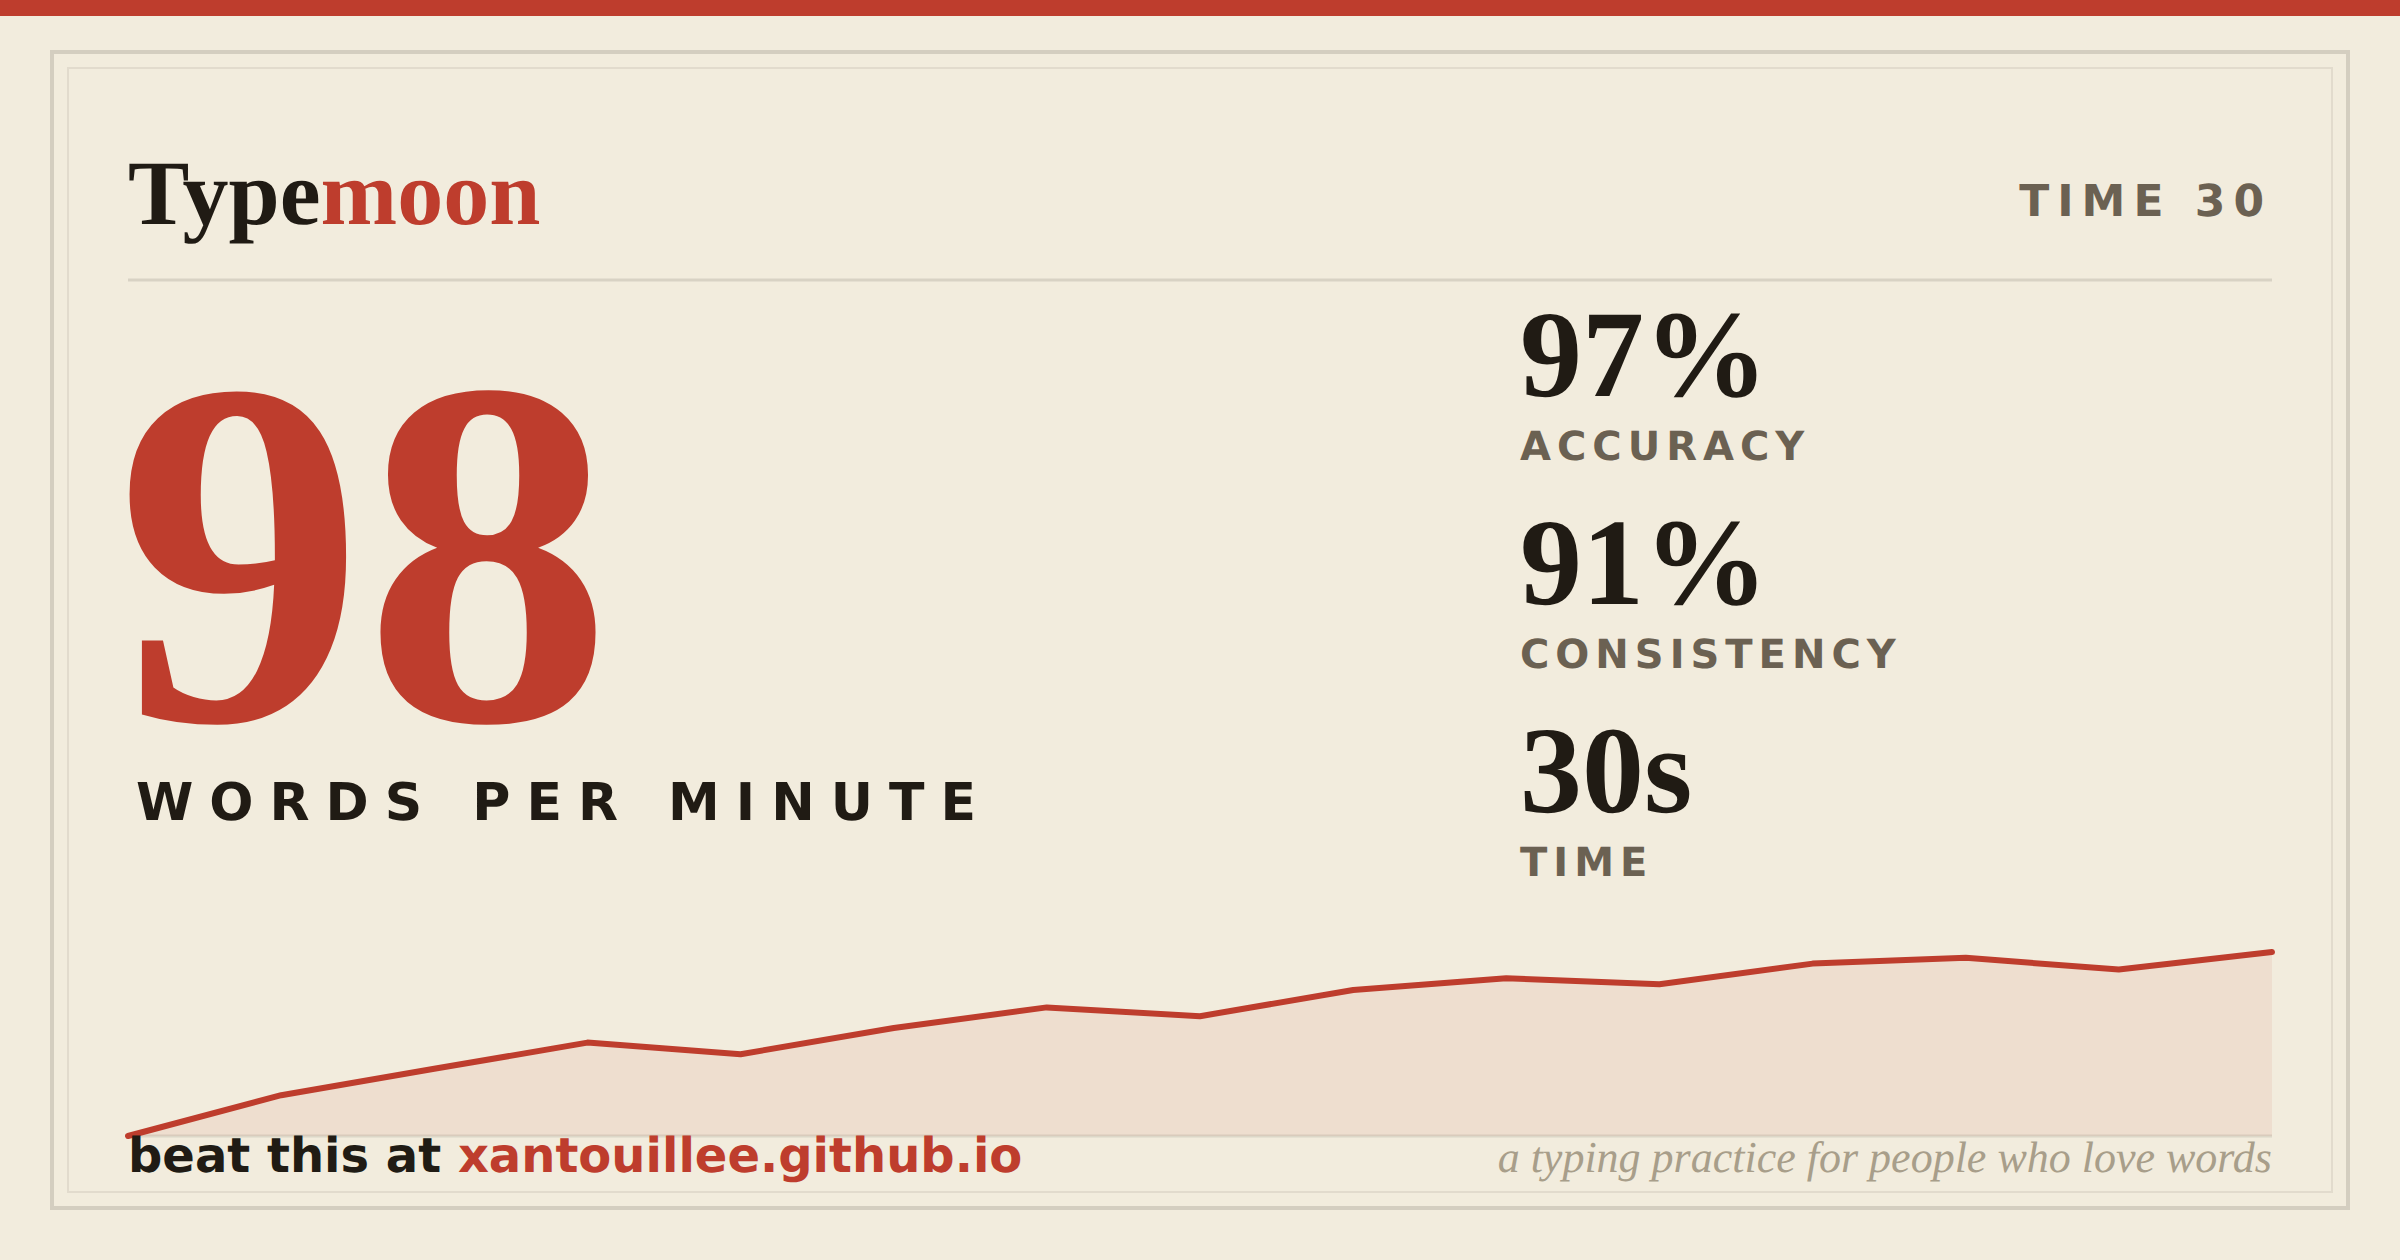
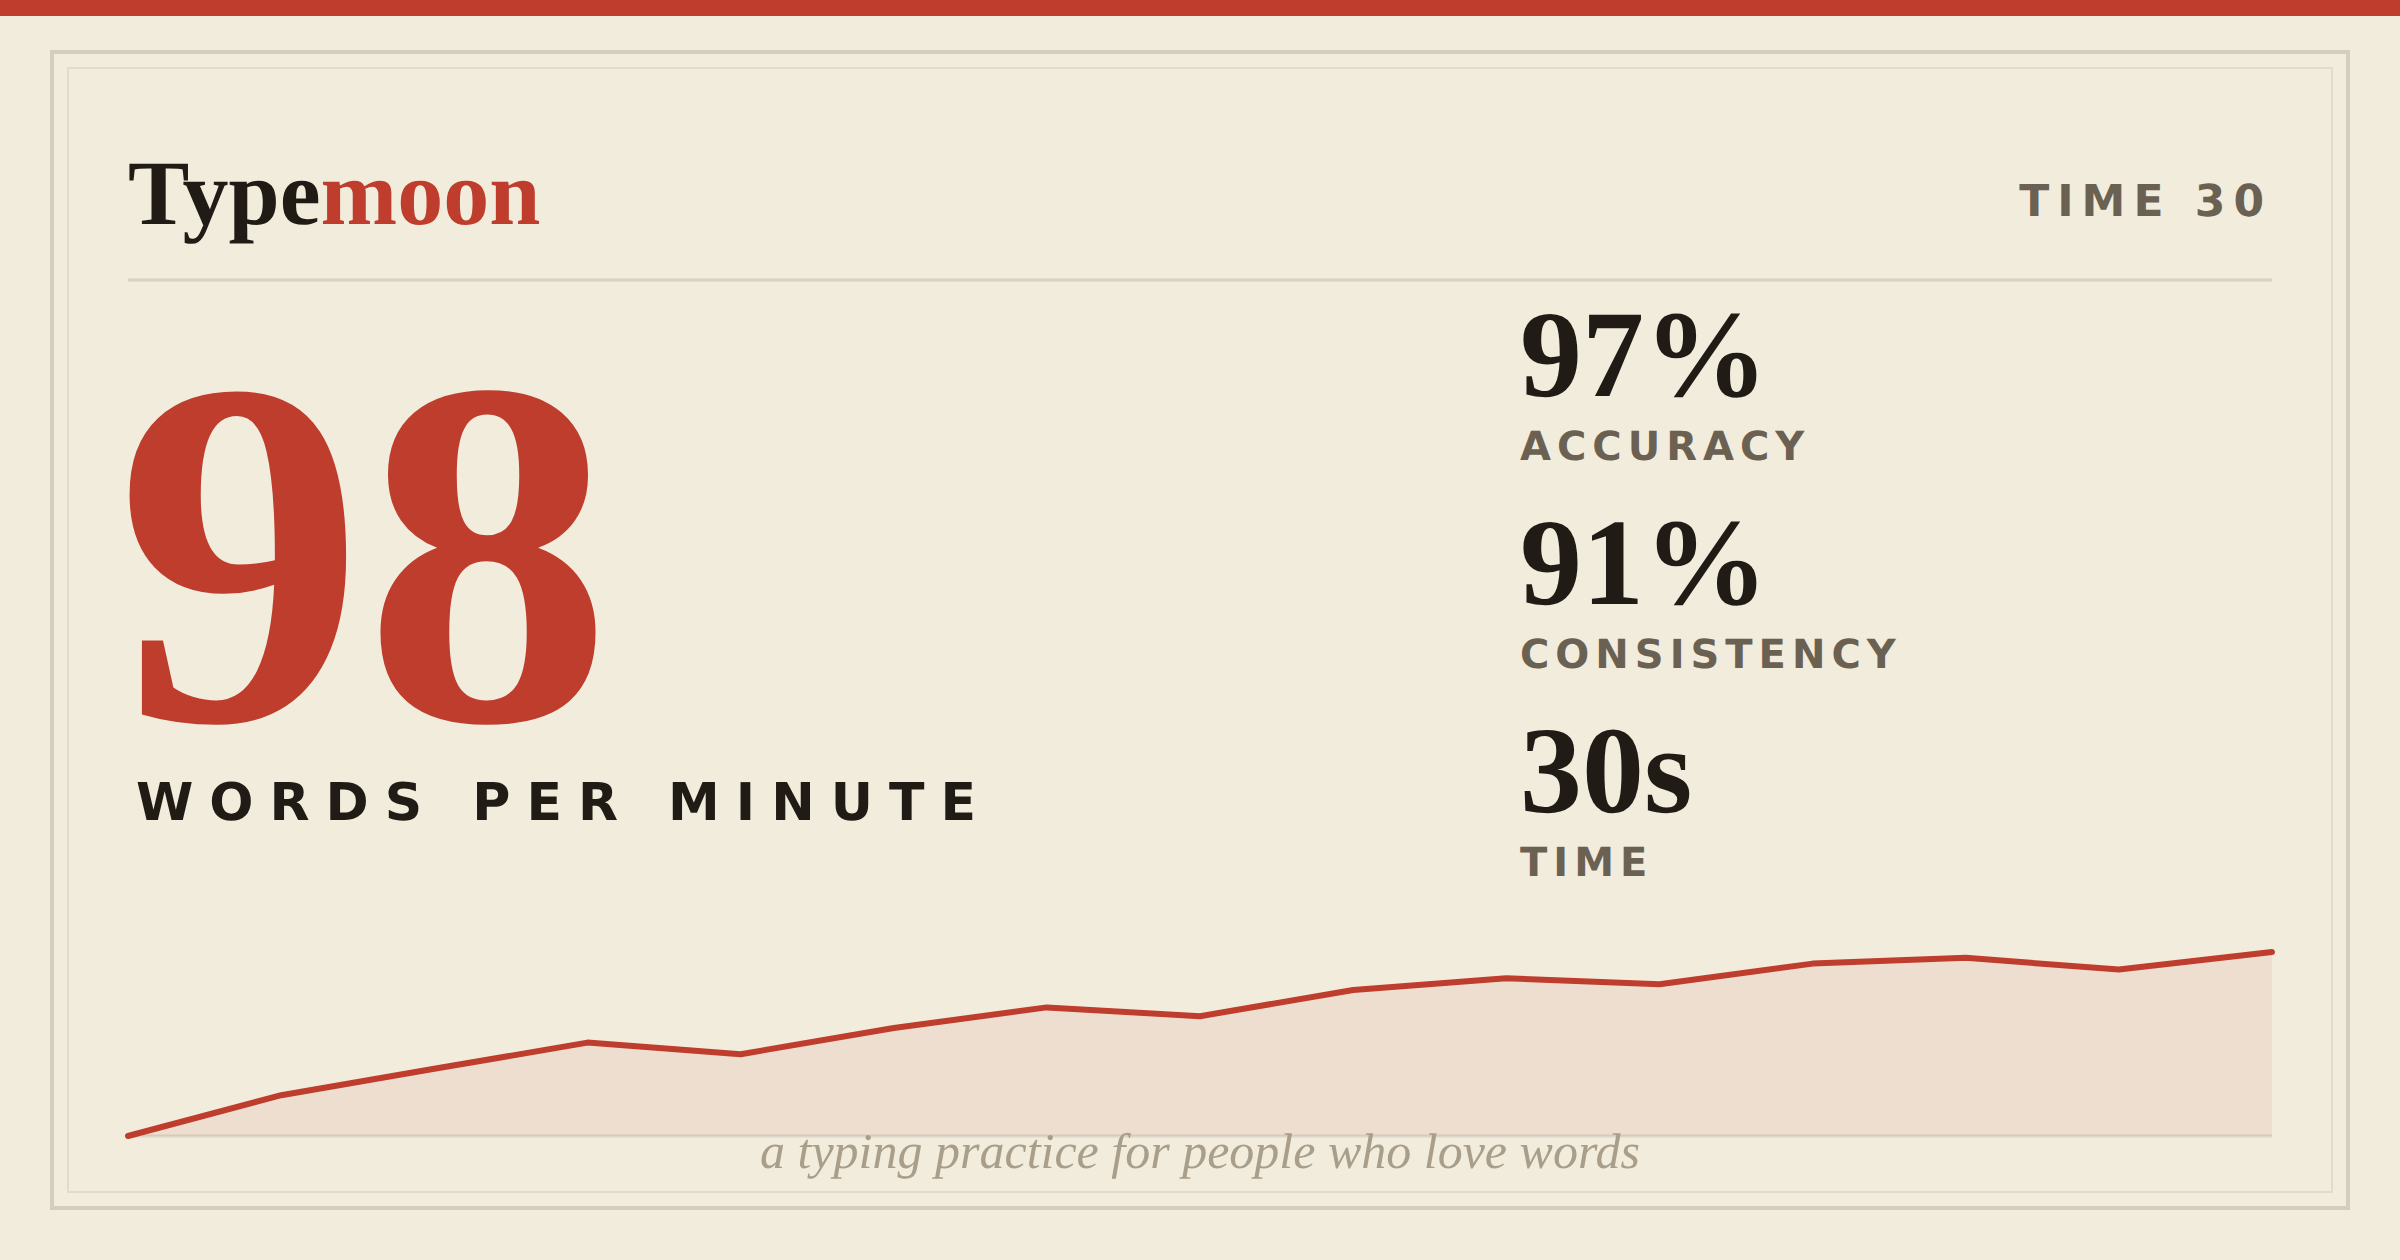
Share polish: stay in-app on phone, self-contained /score, cleaner card
Two fixes from feedback:

- Sharing on a phone no longer dumps you onto the desktop-chrome page. The
  mobile results Share button now opens the native share sheet directly and
  stays inside the app; it only falls back to the card page when the browser
  has no share API.
- The /score landing is now self-contained (its own minimal bar over a
  full-screen sheet) instead of rendering inside the desktop header/nav, so it
  reads the same on a phone as on desktop for recipients too.
- Removed the "beat this at xantouillee.github.io" line from the score card —
  it read cheap. Kept the centered italic tagline; regenerated og.png to match.

tsc clean; 117/117 tests; build ~209 kB gzip. Verified in a browser: native
share stays on /play, the score page shows no desktop nav, and the card fits
the phone width with no horizontal overflow.

Claude-Session: https://claude.ai/code/session_01TEUL7Gy2fLTMqupoKzJVys

Changed region(s): [[0.0312, 0.8976, 0.9375, 0.9595]]

diff --git a/src/pages/ScorePage.tsx b/src/pages/ScorePage.tsx
@@ -7,9 +7,11 @@ import { ShareBar } from '../components/Share/ShareBar';
 import { t } from '../i18n/strings';
 
 /**
- * The landing a shared link opens: the score card, then a single loud "beat it"
- * button that sets the exact same mode and drops the visitor into a run. This is
- * the loop — the whole reason a score is worth sharing.
+ * The landing a shared link opens. It is self-contained — a full-screen sheet
+ * with its own minimal bar rather than the app chrome — so it reads the same on
+ * a phone as on a desktop, and sharing from the mobile app never dumps anyone
+ * onto the desktop navigation. The loud "beat it" button sets the shared run up
+ * and sends the visitor into it.
  */
 export function ScorePage() {
   const [params] = useSearchParams();
@@ -19,50 +21,64 @@ export function ScorePage() {
 
   const payload = useMemo(() => decodeScore(params), [params]);
 
-  if (!payload) {
-    return (
-      <div className="flex-1 flex flex-col items-center justify-center gap-4 px-6 text-center">
-        <p style={{ color: 'rgb(var(--ink-soft))' }}>{t(lang, 'noScore')}</p>
-        <Link
-          to="/"
-          className="px-6 py-3 rounded-full text-sm font-semibold"
-          style={{ background: 'rgb(var(--accent))', color: 'rgb(var(--paper))' }}
-        >
-          {t(lang, 'startTyping')}
-        </Link>
-      </div>
-    );
-  }
-
-  const beatIt = () => {
-    // set up the exact same run, then send them into it
-    s.setMode(payload.mode as Mode);
-    if (payload.mode === 'time' && payload.val) s.setTimeValue(payload.val);
-    if (payload.mode === 'words' && payload.val) s.setWordsValue(payload.val);
-    if (payload.lang) s.setLanguage(payload.lang);
-    const touch =
-      window.matchMedia?.('(pointer: coarse)').matches && window.innerWidth < 820;
+  const goHome = () => {
+    const touch = window.matchMedia?.('(pointer: coarse)').matches && window.innerWidth < 820;
     navigate(touch ? '/play' : '/');
   };
 
+  const beatIt = () => {
+    if (payload) {
+      s.setMode(payload.mode as Mode);
+      if (payload.mode === 'time' && payload.val) s.setTimeValue(payload.val);
+      if (payload.mode === 'words' && payload.val) s.setWordsValue(payload.val);
+      if (payload.lang) s.setLanguage(payload.lang);
+    }
+    goHome();
+  };
+
   return (
-    <div className="flex-1 flex flex-col items-center px-4 pb-16">
-      <div className="w-full max-w-2xl flex flex-col items-center gap-6 mt-4">
-        <p className="eyebrow">{t(lang, 'canYouBeat')}</p>
+    <div
+      className="fixed inset-0 z-40 flex flex-col overflow-y-auto"
+      style={{ background: 'rgb(var(--paper))', color: 'rgb(var(--ink))' }}
+    >
+      {/* minimal bar */}
+      <div className="shrink-0 flex items-center justify-between px-5 pt-4 pb-2">
+        <Link to="/" className="font-display font-black tracking-tight" style={{ fontSize: '1.2rem' }}>
+          Type<span style={{ color: 'rgb(var(--accent))' }}>moon</span>
+        </Link>
+      </div>
 
-        <ScoreCard payload={payload} />
+      <div className="flex-1 flex flex-col items-center justify-center px-4 py-6">
+        {payload ? (
+          <div className="w-full max-w-2xl flex flex-col items-center gap-6">
+            <p className="eyebrow">{t(lang, 'canYouBeat')}</p>
 
-        <button
-          onClick={beatIt}
-          className="px-8 py-4 rounded-full text-[16px] font-bold shadow-sm"
-          style={{ background: 'rgb(var(--accent))', color: 'rgb(var(--paper))' }}
-        >
-          {t(lang, 'beatIt')} →
-        </button>
+            <ScoreCard payload={payload} />
 
-        <div className="w-full pt-2">
-          <ShareBar payload={payload} lang={lang} />
-        </div>
+            <button
+              onClick={beatIt}
+              className="px-8 py-4 rounded-full text-[16px] font-bold shadow-sm"
+              style={{ background: 'rgb(var(--accent))', color: 'rgb(var(--paper))' }}
+            >
+              {t(lang, 'beatIt')} →
+            </button>
+
+            <div className="w-full pt-2">
+              <ShareBar payload={payload} lang={lang} />
+            </div>
+          </div>
+        ) : (
+          <div className="flex flex-col items-center gap-4 text-center">
+            <p style={{ color: 'rgb(var(--ink-soft))' }}>{t(lang, 'noScore')}</p>
+            <button
+              onClick={goHome}
+              className="px-6 py-3 rounded-full text-sm font-semibold"
+              style={{ background: 'rgb(var(--accent))', color: 'rgb(var(--paper))' }}
+            >
+              {t(lang, 'startTyping')}
+            </button>
+          </div>
+        )}
       </div>
     </div>
   );

diff --git a/src/pages/MobilePage.tsx b/src/pages/MobilePage.tsx
@@ -14,7 +14,7 @@ import { useViewportHeight } from '../hooks/useViewportHeight';
 import { MobileTypingArea } from '../components/Mobile/MobileTypingArea';
 import { MobileSettings } from '../components/Mobile/MobileSettings';
 import { generateWords, cleanPassage } from '../engine/textGen';
-import { encodeScore, payloadFromResult } from '../lib/share';
+import { buildShareText, buildShareUrl, encodeScore, payloadFromResult } from '../lib/share';
 import {
   LANGUAGES,
   loadWords,
@@ -106,12 +106,26 @@ export function MobilePage() {
     typing.restart();
   }, [typing]);
 
-  // Share opens the score card page for this exact run — the sharer sees the
-  // same card recipients will, then shares from there.
-  const shareRun = useCallback(() => {
+  // Share stays inside the app: the native sheet (Messenger/Discord/WhatsApp…)
+  // opens over the run. Only when the browser has no share API do we fall back
+  // to the card page so the link can still be copied.
+  const shareRun = useCallback(async () => {
     if (!result) return;
     const val = s.mode === 'time' ? s.timeValue : s.mode === 'words' ? s.wordsValue : undefined;
-    navigate(`/score?${encodeScore(payloadFromResult(result, s.mode, val, lang))}`);
+    const payload = payloadFromResult(result, s.mode, val, lang);
+    if (typeof navigator !== 'undefined' && typeof navigator.share === 'function') {
+      try {
+        await navigator.share({
+          title: 'Typemoon',
+          text: buildShareText(payload),
+          url: buildShareUrl(window.location.origin + import.meta.env.BASE_URL, payload),
+        });
+      } catch {
+        /* the user dismissed the sheet */
+      }
+      return;
+    }
+    navigate(`/score?${encodeScore(payload)}`);
   }, [result, s.mode, s.timeValue, s.wordsValue, lang, navigate]);
 
   const progress = useMemo(() => {

diff --git a/src/lib/share.ts b/src/lib/share.ts
@@ -187,9 +187,8 @@ export function buildScoreCardSvg(p: ScorePayload): string {
   ${statRows}
   ${spark}
 
-  <!-- CTA -->
-  <text x="${pad}" y="${h - 44}" font-family="${SANS}" font-weight="700" font-size="24" fill="${C.ink}">beat this at <tspan fill="${C.accent}">xantouillee.github.io</tspan></text>
-  <text x="${w - pad}" y="${h - 44}" text-anchor="end" font-family="${DISPLAY}" font-style="italic" font-size="22" fill="${C.faint}">a typing practice for people who love words</text>
+  <!-- tagline -->
+  <text x="${w / 2}" y="${h - 46}" text-anchor="middle" font-family="${DISPLAY}" font-style="italic" font-size="25" fill="${C.faint}">a typing practice for people who love words</text>
 </svg>`;
 }
 